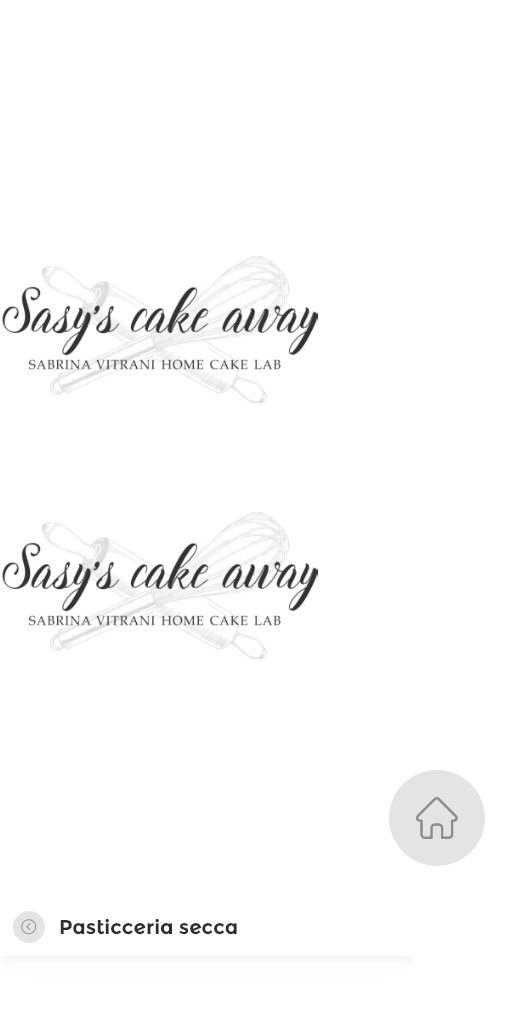
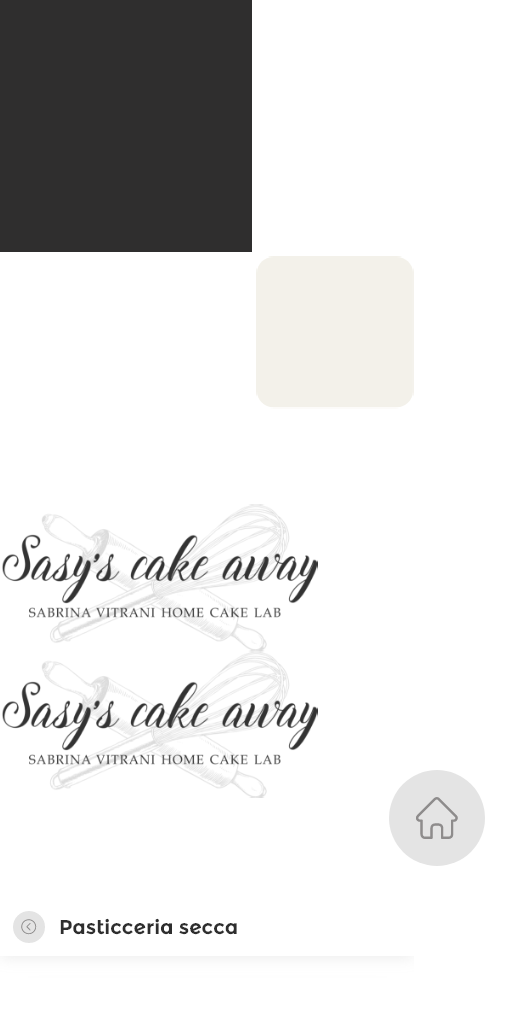
New button animation
Only with Ordina

Changed region(s): [[0.0, 0.0, 0.625, 0.375], [0.0, 0.5, 0.625, 0.625], [0.0, 0.6562, 0.625, 0.7812]]

diff --git a/scripts/c3runtime.js b/scripts/c3runtime.js
@@ -2674,6 +2674,57 @@ Vendor(){return navigator.vendor},BatteryLevel(){return 1},BatteryTimeLeft(){ret
 WindowInnerWidth(){return this._runtime.GetCanvasManager().GetLastWidth()},WindowInnerHeight(){return this._runtime.GetCanvasManager().GetLastHeight()},WindowOuterWidth(){return this._windowOuterWidth},WindowOuterHeight(){return this._windowOuterWidth}}};
 
 
+'use strict';{const C3=self.C3;C3.Plugins.shadowlight=class ShadowLightPlugin extends C3.SDKPluginBase{constructor(opts){super(opts);this._penumbraAsset=this._runtime.LoadImage({url:"penumbra.png"});this._penumbraDrawable=null;this._runtime.AddLoadPromise(this._penumbraAsset.LoadToDrawable().then(drawable=>this._penumbraDrawable=drawable))}Release(){super.Release()}GetPenumbraDrawable(){return this._penumbraDrawable}}};
+
+
+'use strict';{const C3=self.C3;C3.Plugins.shadowlight.Type=class ShadowLightType extends C3.SDKTypeBase{constructor(objectClass){super(objectClass)}Release(){super.Release()}OnCreate(){}LoadTextures(renderer){}ReleaseTextures(){}}};
+
+
+'use strict';{const C3=self.C3;const LIGHT_HEIGHT=0;const LIGHT_RADIUS=1;const SHADOW_COLOR=2;const CAST_FROM=3;const TAG=4;const ALL=0;const SAME=1;const DIFFERENT=2;const TEMP_COLOR=[0,0,0];const SHADOW_CAST_TARGETS=["all","same-tag","different-tag"];const tempColor=C3.New(C3.Color);const tempPoly=C3.New(C3.CollisionPoly);const tileCollRectCandidates=[];const tempRect=C3.New(C3.Rect);C3.Plugins.shadowlight.Instance=class ShadowLightInstance extends C3.SDKWorldInstanceBase{constructor(inst,properties){super(inst);
+const wi=this.GetWorldInfo();this._lightX=wi.GetX();this._lightY=wi.GetY();this._lightZ=0;this._maxExtrude=1E3;this._lightRadius=0;this._color=C3.New(C3.Color);this._castFrom=0;this._tag="";this._lastKnownX=wi.GetX();this._lastKnownY=wi.GetY();this._penumbraTexture=null;if(properties){this._lightZ=properties[LIGHT_HEIGHT];this._lightRadius=this._lightZ===0?properties[LIGHT_RADIUS]:0;const c=properties[SHADOW_COLOR];this._color.setRgb(c[0],c[1],c[2]);this._castFrom=properties[CAST_FROM];this._tag=
+properties[TAG]}this._shadowRenderer=C3.New(self.ShadowRenderer);this.HandleWebGLContextLoss();this._StartTicking2()}Release(){this._ReleasePenumbraTexture();if(this._shadowRenderer){this._shadowRenderer.Release();this._shadowRenderer=null}this._color=null;super.Release()}SaveToJson(){return{"lh":this._lightZ,"lr":this._lightRadius,"sc":this._color.toJSON(),"cf":this._castFrom,"t":this._tag}}LoadFromJson(o){this._lightZ=o["lh"];this._lightRadius=o["lr"];this._color.setFromJSON(o["sc"]);this._castFrom=
+o["cf"];this._tag=o["t"]}_ReleasePenumbraTexture(){if(!this._penumbraTexture)return;this._runtime.GetWebGLRenderer().DeleteTexture(this._penumbraTexture);this._penumbraTexture=null}OnWebGLContextLost(){this._penumbraTexture=null}OnWebGLContextRestored(){}_CastsFrom(otherTag){switch(this._castFrom){case ALL:return true;case SAME:return C3.equalsNoCase(this._tag,otherTag);case DIFFERENT:return!C3.equalsNoCase(this._tag,otherTag)}}Tick2(){const wi=this.GetWorldInfo();if(this._lastKnownX!==wi.GetX()||
+this._lastKnownY!==wi.GetY()){this._lightX=wi.GetX();this._lightY=wi.GetY()}const viewport=tempRect;wi.GetLayer().GetViewportForZ(wi.GetTotalZElevation(),viewport);const newX=viewport.midX();const newY=viewport.midY();const newW=viewport.width()+this._maxExtrude;const newH=viewport.height()+this._maxExtrude;if(newX!==wi.GetX()||newY!==wi.GetY()||newW!==wi.GetWidth()||newH!==wi.GetHeight()){wi.SetXY(newX,newY);wi.SetSize(newW,newH);wi.SetBboxChanged()}this._lastKnownX=wi.GetX();this._lastKnownY=wi.GetY();
+this._maxExtrude=C3.distanceTo(viewport.getLeft(),viewport.getTop(),viewport.getRight(),viewport.getBottom())*15}_GetShadowCasterCandidates(){const shadowCasterBehavior=this._runtime.GetPluginManager().GetBehaviorByConstructorFunction(C3.Behaviors.shadowcaster);if(!shadowCasterBehavior)return[];const wi=this.GetWorldInfo();const layer=wi.GetLayer();const boundBox=wi.GetBoundingBox();const objectClasses=shadowCasterBehavior.GetObjectClasses();const tempArr=[];const engine=this._runtime.GetCollisionEngine();
+engine.GetObjectClassesCollisionCandidates(layer,objectClasses,boundBox,tempArr);return[...new Set(tempArr)]}_UpdateShadowRendererParameters(){this._shadowRenderer.SetLightX(this._lightX);this._shadowRenderer.SetLightY(this._lightY);this._shadowRenderer.SetLightZ(this._lightZ);this._shadowRenderer.SetLightRadius(this._lightRadius);this._shadowRenderer.SetCastFrom(SHADOW_CAST_TARGETS[this._castFrom]);this._shadowRenderer.SetTag(this._tag);this._shadowRenderer.SetMaxExtrude(this._maxExtrude)}_MaybeCreatePenumbraTexture(renderer){if(this._penumbraTexture)return;
+const drawable=this.GetPlugin().GetPenumbraDrawable();const w=drawable.width;const h=drawable.height;const tempCanvas=C3.CreateCanvas(w,h);const tempCtx=tempCanvas.getContext("2d");tempCtx.drawImage(drawable,0,0,w,h);const imageData=tempCtx.getImageData(0,0,w,h);const arr=imageData.data;const r=Math.floor(this._color.getR()*255);const g=Math.floor(this._color.getG()*255);const b=Math.floor(this._color.getB()*255);for(let i=0,len=arr.length;i<len;i+=4){arr[i]=r;arr[i+1]=g;arr[i+2]=b}tempCtx.putImageData(imageData,
+0,0);this._penumbraTexture=renderer.CreateStaticTexture(tempCanvas,{sampling:this._runtime.GetSampling()})}Draw(renderer){this._UpdateShadowRendererParameters();this._MaybeCreatePenumbraTexture(renderer);this._shadowRenderer.SetPenumbraTexture(this._penumbraTexture);const wi=this.GetWorldInfo();tempColor.copyRgb(this._color);tempColor.setA(wi.GetOpacity());tempColor.premultiply();renderer.SetColor(tempColor);renderer.SetColorFillMode();for(const inst of this._GetShadowCasterCandidates())this._DrawInstanceShadow(renderer,
+inst)}_DrawInstanceShadow(renderer,inst){const savedMap=inst.GetSavedDataMap();if(!savedMap.get("shadowcasterEnabled")||!this._CastsFrom(savedMap.get("shadowcasterTag")))return;const h=savedMap.get("shadowcasterHeight");if(inst.HasTilemap())this._DrawTilemapShadow(renderer,inst,h);else{const wi=inst.GetWorldInfo();const poly=wi.GetTransformedCollisionPoly();tempPoly.copy(poly);tempPoly.offset(wi.GetX(),wi.GetY());this._shadowRenderer.RenderShadow(renderer,tempPoly,h)}}_DrawTilemapShadow(renderer,
+inst,h){const collRects=tileCollRectCandidates;const boundBox=this.GetWorldInfo().GetBoundingBox();inst.GetSdkInstance().GetCollisionRectCandidates(boundBox,collRects);const tmWi=inst.GetWorldInfo();const tmX=tmWi.GetX();const tmY=tmWi.GetY();for(let i=0,len=collRects.length;i<len;++i){const c=collRects[i];const tileRc=c.GetRect();const tilePoly=c.GetPoly();if(tilePoly){tempPoly.copy(tilePoly);tempPoly.offset(tmX+tileRc.getLeft(),tmY+tileRc.getTop())}else tempPoly.setFromRect(tileRc,-tmX,-tmY);this._shadowRenderer.RenderShadow(renderer,
+tempPoly,h)}C3.clearArray(collRects)}GetPropertyValueByIndex(index){switch(index){case LIGHT_HEIGHT:return this._lightZ;case LIGHT_RADIUS:return this._lightRadius;case SHADOW_COLOR:TEMP_COLOR[0]=this._color.getR();TEMP_COLOR[1]=this._color.getG();TEMP_COLOR[2]=this._color.getB();return TEMP_COLOR.slice(0);case CAST_FROM:return this._castFrom;case TAG:return this._tag}}SetPropertyValueByIndex(index,value){switch(index){case LIGHT_HEIGHT:this._lightZ=value;break;case LIGHT_RADIUS:this._lightRadius=
+value;break;case SHADOW_COLOR:this._color.setRgb(value[0],value[1],value[2]);break;case CAST_FROM:this._castFrom=value;break;case TAG:this._tag=value;break}}SetPropertyColorOffsetValueByIndex(index,r,g,b){if(r===0&&g===0&&b===0)return;switch(index){case SHADOW_COLOR:this._color.addRgb(r,g,b);break}}}};
+
+
+'use strict';{const C3=self.C3;C3.Plugins.shadowlight.Cnds={}};
+
+
+'use strict';{const C3=self.C3;const tempColor=C3.New(C3.Color);C3.Plugins.shadowlight.Acts={SetLightHeight(z){if(this._lightZ===z)return;this._lightZ=z;this._runtime.UpdateRender()},SetLightColor(rgb){tempColor.setFromRgbValue(rgb);tempColor.clamp();if(this._color.equalsIgnoringAlpha(tempColor))return;this._color.copyRgb(tempColor);this._ReleasePenumbraTexture();this._runtime.UpdateRender()},SetTag(tag){if(this._tag===tag)return;this._tag=tag;this._runtime.UpdateRender()},SetCastFrom(cf){if(this._castFrom===
+cf)return;this._castFrom=cf;this._runtime.UpdateRender()}}};
+
+
+'use strict';{const C3=self.C3;C3.Plugins.shadowlight.Exps={LightX(){return this._lightX},LightY(){return this._lightY},Tag(){return this._tag}}};
+
+
+'use strict';{const C3=self.C3;function IsBackFace(Lx,Ly,px,py,qx,qy){let n=C3.angleTo(px,py,qx,qy)-Math.PI/2;let a=C3.angleTo(px,py,Lx,Ly);return C3.angleDiff(a,n)>=Math.PI/2}let segmentIntersectX=0;let segmentIntersectY=0;function SegmentIntersectionAt(p0_x,p0_y,p1_x,p1_y,p2_x,p2_y,p3_x,p3_y){let s1_x=p1_x-p0_x;let s1_y=p1_y-p0_y;let s2_x=p3_x-p2_x;let s2_y=p3_y-p2_y;let div=-s2_x*s1_y+s1_x*s2_y;if(div===0)return false;let s=(-s1_y*(p0_x-p2_x)+s1_x*(p0_y-p2_y))/div;div=-s2_x*s1_y+s1_x*s2_y;if(div===
+0)return false;let t=(s2_x*(p0_y-p2_y)-s2_y*(p0_x-p2_x))/div;if(s>=0&&s<=1&&t>=0&&t<=1){segmentIntersectX=p0_x+t*s1_x;segmentIntersectY=p0_y+t*s1_y;return true}return false}let posQuad=new C3.Quad;let uvQuad=new C3.Quad;const VALID_CASTFROM=new Set(["all","same-tag","different-tag"]);self.ShadowRenderer=class ShadowRenderer{constructor(){this._lightX=0;this._lightY=0;this._lightZ=0;this._lightRadius=0;this._castFrom="all";this._tag="";this._maxExtrude=1E3;this._backFaces1=[];this._backFaces2=[];this._umbraPts=
+[];this._cwEdge1=-1;this._cwEdge2=-1;this._acwEdge1=-1;this._acwEdge2=-1;this._acwUmbraRootX=0;this._acwUmbraRootY=0;this._cwUmbraRootX=0;this._cwUmbraRootY=0;this._acwUmbraProjX=0;this._acwUmbraProjY=0;this._cwUmbraProjX=0;this._cwUmbraProjY=0;this._polyMidX=0;this._polyMidY=0;this._penumbraTexture=null}Release(){this.Reset();this._backFaces1=null;this._backFaces2=null;this._umbraPts=null;this._penumbraTexture=null}Reset(){C3.clearArray(this._backFaces1);C3.clearArray(this._backFaces2);C3.clearArray(this._umbraPts);
+this._cwEdge1=-1;this._cwEdge2=-1;this._acwEdge1=-1;this._acwEdge2=-1;this._acwUmbraRootX=0;this._acwUmbraRootY=0;this._cwUmbraRootX=0;this._cwUmbraRootY=0;this._acwUmbraProjX=0;this._acwUmbraProjY=0;this._cwUmbraProjX=0;this._cwUmbraProjY=0;this._polyMidX=0;this._polyMidY=0}SetLightX(x){this._lightX=x}GetLightX(){return this._lightX}SetLightY(y){this._lightY=y}GetLightY(){return this._lightY}SetLightZ(z){this._lightZ=z}GetLightZ(){return this._lightZ}SetLightRadius(r){if(r<0)r=0;this._lightRadius=
+r}GetLightRadius(){return this._lightRadius}SetCastFrom(c){if(!VALID_CASTFROM.has(c))throw new Error("invalid cast-from");this._castFrom=c}GetCastFrom(){return this._castFrom}SetTag(t){this._tag=t}GetTag(){return this._tag}SetMaxExtrude(e){this._maxExtrude=e}GetMaxExtrude(){return this._maxExtrude}SetPenumbraTexture(texture){this._penumbraTexture=texture}RenderShadow(renderer,poly,casterHeight){this.Reset();this.CalculateShadow(poly,casterHeight);renderer.SetColorFillMode();if(this._umbraPts.length>=
+6)renderer.ConvexPoly(this._umbraPts);if(this._lightRadius>0&&this._penumbraTexture){if(this._cwEdge1>-1&&this._cwEdge2>-1){renderer.SetTextureFillMode();renderer.SetTexture(this._penumbraTexture);this.FillPenumbra(renderer,poly,true)}if(this._acwEdge1>-1&&this._acwEdge2>-1){renderer.SetTextureFillMode();renderer.SetTexture(this._penumbraTexture);this.FillPenumbra(renderer,poly,false)}}}CalculateShadow(poly,casterHeight){this._polyMidX=poly.GetMidX();this._polyMidY=poly.GetMidY();if(this._lightRadius>
+0)this._CalculateShadowWithRadius(poly,casterHeight);else this._CalculateShadowWithoutRadius(poly,casterHeight)}_CalculateShadowWithRadius(poly,casterHeight){this._CalcBackFaces(poly,-this._lightRadius);this._FindEdges();C3.shallowAssignArray(this._backFaces2,this._backFaces1);this._cwEdge2=this._cwEdge1;this._acwEdge2=this._acwEdge1;C3.clearArray(this._backFaces1);this._cwEdge1=-1;this._acwEdge1=-1;this._CalcBackFaces(poly,this._lightRadius);this._FindEdges();if(this._cwEdge1===-1||this._acwEdge1===
+-1||this._cwEdge2===-1||this._acwEdge2===-1)return;this._CalcUmbraWithRadius(poly,casterHeight)}_CalculateShadowWithoutRadius(poly,casterHeight){this._CalcBackFaces(poly,0);this._FindEdges();let points=poly.GetPointsArray();for(let i=0,len=points.length;i<len;i+=2){let polyx=points[i];let polyy=points[i+1];this._CalcShadowSegment(i/2,this._lightX,this._lightY,polyx,polyy,casterHeight)}}_CalcBackFaces(poly,r){let OLx=this._lightX;let OLy=this._lightY;let Lx=OLx;let Ly=OLy;let a=0;if(r!==0)a=C3.angleTo(OLx,
+OLy,this._polyMidX,this._polyMidY)-Math.PI/2;let points=poly.GetPointsArray();for(let i=0,len=points.length;i<len;i+=2){let j=i+2;if(j===len)j=0;let polyx=points[i];let polyy=points[i+1];let nextx=points[j];let nexty=points[j+1];if(r!==0){Lx=OLx+Math.cos(a)*r;Ly=OLy+Math.sin(a)*r}this._backFaces1.push(IsBackFace(Lx,Ly,polyx,polyy,nextx,nexty))}}_GetBackFaceAt(i){i%=this._backFaces1.length;if(i<0)i+=this._backFaces1.length;return this._backFaces1[i]}_FindEdges(){for(let i=0,len=this._backFaces1.length;i<
+len;++i){let isBackFace=this._backFaces1[i];let lastBackFace=this._GetBackFaceAt(i-1);if(lastBackFace&&!isBackFace)this._cwEdge1=i;if(!lastBackFace&&isBackFace)this._acwEdge1=i}}_CalcShadowSegment(i,Lx,Ly,px,py,casterHeight){let isBackFace=this._backFaces1[i];let lastBackFace=this._GetBackFaceAt(i-1);let isClockwiseEdge=i===this._cwEdge1;let isAnticlockwiseEdge=i===this._acwEdge1;let x=0;let y=0;if(isBackFace||lastBackFace){let ap=C3.angleTo(Lx,Ly,px,py);let dp=C3.distanceTo(Lx,Ly,px,py);let e=this._CalculateExtrusion(Lx,
+Ly,px,py,casterHeight);x=Lx+Math.cos(ap)*(dp+e);y=Ly+Math.sin(ap)*(dp+e)}else{x=px;y=py}if(isAnticlockwiseEdge){this._umbraPts.push(px);this._umbraPts.push(py)}this._umbraPts.push(x);this._umbraPts.push(y);if(isClockwiseEdge){this._umbraPts.push(px);this._umbraPts.push(py)}}_CalculateExtrusion(Lx,Ly,x,y,h){if(h>=this._lightZ)return this._maxExtrude;if(h<=0)return 0;let dist=C3.distanceTo(Lx,Ly,x,y);let e=h*(dist/(this._lightZ-h));return C3.clamp(e,0,this._maxExtrude)}_CalcUmbraWithRadius(poly,h){let i=
+this._cwEdge2;let polyx=0;let polyy=0;let pointCount=poly.GetPointCount();let points=poly.GetPointsArray();for(;;++i){if(i===pointCount)i=0;let i2=i*2;polyx=points[i2];polyy=points[i2+1];this._umbraPts.push(polyx);this._umbraPts.push(polyy);if(i===this._acwEdge1)break}let r=this._lightRadius;let acw_x=polyx;let acw_y=polyy;let a=C3.angleTo(this._lightX,this._lightY,this._polyMidX,this._polyMidY);let L1x=this._lightX+Math.cos(a-Math.PI/2)*r;let L1y=this._lightY+Math.sin(a-Math.PI/2)*r;let ap=C3.angleTo(L1x,
+L1y,acw_x,acw_y);let ad=C3.distanceTo(L1x,L1y,acw_x,acw_y);let u1x=L1x+Math.cos(ap)*(ad+this._maxExtrude);let u1y=L1y+Math.sin(ap)*(ad+this._maxExtrude);let i2=this._cwEdge2*2;let cw_x=points[i2];let cw_y=points[i2+1];a=C3.angleTo(this._lightX,this._lightY,this._polyMidX,this._polyMidY);let L2x=this._lightX+Math.cos(a+Math.PI/2)*r;let L2y=this._lightY+Math.sin(a+Math.PI/2)*r;ap=C3.angleTo(L2x,L2y,cw_x,cw_y);ad=C3.distanceTo(L2x,L2y,cw_x,cw_y);let u2x=L2x+Math.cos(ap)*(ad+this._maxExtrude);let u2y=
+L2y+Math.sin(ap)*(ad+this._maxExtrude);this._acwUmbraRootX=acw_x;this._acwUmbraRootY=acw_y;this._cwUmbraRootX=cw_x;this._cwUmbraRootY=cw_y;if(SegmentIntersectionAt(acw_x,acw_y,u1x,u1y,cw_x,cw_y,u2x,u2y)){this._umbraPts.push(segmentIntersectX);this._umbraPts.push(segmentIntersectY);this._acwUmbraProjX=segmentIntersectX;this._acwUmbraProjY=segmentIntersectY;this._cwUmbraProjX=segmentIntersectX;this._cwUmbraProjY=segmentIntersectY}else{this._umbraPts.push(u1x);this._umbraPts.push(u1y);this._umbraPts.push(u2x);
+this._umbraPts.push(u2y);this._acwUmbraProjX=u1x;this._acwUmbraProjY=u1y;this._cwUmbraProjX=u2x;this._cwUmbraProjY=u2y}}FillPenumbra(renderer,poly,clockwise){let Lx=this._lightX;let Ly=this._lightY;let points=poly.GetPointsArray();let rootx=0;let rooty=0;let innerx=0;let innery=0;if(clockwise){rootx=this._cwUmbraRootX;rooty=this._cwUmbraRootY;innerx=this._cwUmbraProjX;innery=this._cwUmbraProjY}else{rootx=this._acwUmbraRootX;rooty=this._acwUmbraRootY;innerx=this._acwUmbraProjX;innery=this._acwUmbraProjY}let r=
+this._lightRadius;let a=C3.angleTo(Lx,Ly,this._polyMidX,this._polyMidY);let oa=Math.PI/2;if(clockwise)oa=-oa;Lx+=Math.cos(a+oa)*r;Ly+=Math.sin(a+oa)*r;let twopart=false;let secx=0;let secy=0;if(clockwise){twopart=this._cwEdge1!==this._cwEdge2;if(twopart){secx=points[this._cwEdge1*2];secy=points[this._cwEdge1*2+1]}}else{twopart=this._acwEdge1!==this._acwEdge2;if(twopart){secx=points[this._acwEdge2*2];secy=points[this._acwEdge2*2+1]}}if(twopart)a=C3.angleTo(secx,secy,rootx,rooty);else a=C3.angleTo(Lx,
+Ly,rootx,rooty);let Ux=rootx+Math.cos(a)*this._maxExtrude;let Uy=rooty+Math.sin(a)*this._maxExtrude;let U2x=0;let U2y=0;let umbra_factor=0;let rootu=0;let rootv=1;if(twopart){let a3=C3.angleTo(Lx,Ly,secx,secy);U2x=secx+Math.cos(a3)*this._maxExtrude;U2y=secy+Math.sin(a3)*this._maxExtrude;let a2=a;let a1=C3.angleTo(rootx,rooty,innerx,innery);umbra_factor=C3.angleDiff(a2,a3)/C3.angleDiff(a1,a3);let side_dist=C3.distanceTo(secx,secy,rootx,rooty);let inner_root_factor=side_dist/(side_dist+this._maxExtrude);
+let sega=C3.angleTo(0,1,umbra_factor,0);let segd=C3.distanceTo(0,1,umbra_factor,0);rootu+=Math.cos(sega)*inner_root_factor*segd;rootv+=Math.sin(sega)*inner_root_factor*segd}posQuad.set(rootx,rooty,innerx,innery,Ux,Uy,Ux,Uy);uvQuad.set(rootu,rootv,1,0,umbra_factor,0,umbra_factor,0);renderer.Quad4(posQuad,uvQuad);if(twopart){posQuad.set(secx,secy,Ux,Uy,U2x,U2y,U2x,U2y);uvQuad.set(0,1,umbra_factor,0,0,0,0,0);renderer.Quad4(posQuad,uvQuad)}}}};
+
+
 'use strict';{const C3=self.C3;C3.Behaviors.Bullet=class BulletBehavior extends C3.SDKBehaviorBase{constructor(opts){super(opts)}Release(){super.Release()}}};
 
 
@@ -2708,6 +2759,30 @@ const map=new WeakMap;self.IBulletBehaviorInstance=class IBulletBehaviorInstance
 'use strict';{const C3=self.C3;C3.Behaviors.Bullet.Exps={Speed(){return this._GetSpeed()},Acceleration(){return this._GetAcceleration()},AngleOfMotion(){return C3.toDegrees(this._GetAngleOfMotion())},DistanceTravelled(){return this._GetDistanceTravelled()},Gravity(){return this._GetGravity()}}};
 
 
+'use strict';{const C3=self.C3;C3.Behaviors.Fade=class FadeBehavior extends C3.SDKBehaviorBase{constructor(opts){super(opts)}Release(){super.Release()}}};
+
+
+'use strict';{const C3=self.C3;C3.Behaviors.Fade.Type=class FadeType extends C3.SDKBehaviorTypeBase{constructor(behaviorType){super(behaviorType)}Release(){super.Release()}OnCreate(){}}};
+
+
+'use strict';{const C3=self.C3;const FADE_IN_TIME=0;const WAIT_TIME=1;const FADE_OUT_TIME=2;const DESTROY=3;const ACTIVE_AT_START=4;C3.Behaviors.Fade.Instance=class FadeInstance extends C3.SDKBehaviorInstanceBase{constructor(behInst,properties){super(behInst);this._fadeInTime=0;this._waitTime=0;this._fadeOutTime=0;this._destroy=true;this._activeAtStart=true;this._setMaxOpacity=false;this._stage=0;this._stageTime=C3.New(C3.KahanSum);this._maxOpacity=this._inst.GetWorldInfo().GetOpacity()||1;if(properties){this._fadeInTime=
+properties[FADE_IN_TIME];this._waitTime=properties[WAIT_TIME];this._fadeOutTime=properties[FADE_OUT_TIME];this._destroy=!!properties[DESTROY];this._activeAtStart=!!properties[ACTIVE_AT_START];this._stage=this._activeAtStart?0:3}if(this._activeAtStart)if(this._fadeInTime===0){this._stage=1;if(this._waitTime===0)this._stage=2}else{this._inst.GetWorldInfo().SetOpacity(0);this._runtime.UpdateRender()}this._StartTicking()}Release(){super.Release()}SaveToJson(){return{"fit":this._fadeInTime,"wt":this._waitTime,
+"fot":this._fadeOutTime,"d":this._destroy,"s":this._stage,"st":this._stageTime.Get(),"mo":this._maxOpacity}}LoadFromJson(o){this._fadeInTime=o["fit"];this._waitTime=o["wt"];this._fadeOutTime=o["fot"];this._destroy=o["d"];this._stage=o["s"];this._stageTime.Set(o["st"]);this._maxOpacity=o["mo"]}Tick(){const dt=this._runtime.GetDt(this._inst);this._stageTime.Add(dt);const wi=this._inst.GetWorldInfo();if(this._stage===0){wi.SetOpacity(this._stageTime.Get()/this._fadeInTime*this._maxOpacity);this._runtime.UpdateRender();
+if(wi.GetOpacity()>=this._maxOpacity){wi.SetOpacity(this._maxOpacity);this._stage=1;this._stageTime.Reset();this.Trigger(C3.Behaviors.Fade.Cnds.OnFadeInEnd)}}if(this._stage===1)if(this._stageTime.Get()>=this._waitTime){this._stage=2;this._stageTime.Reset();this.Trigger(C3.Behaviors.Fade.Cnds.OnWaitEnd)}if(this._stage===2)if(this._fadeOutTime!==0){wi.SetOpacity(this._maxOpacity-this._stageTime.Get()/this._fadeOutTime*this._maxOpacity);this._runtime.UpdateRender();if(wi.GetOpacity()<=0){this._stage=
+3;this._stageTime.Reset();this.Trigger(C3.Behaviors.Fade.Cnds.OnFadeOutEnd);if(this._destroy)this._runtime.DestroyInstance(this._inst)}}}Start(){this._stage=0;this._stageTime.Reset();if(this._fadeInTime===0){this._stage=1;if(this._waitTime===0)this._stage=2}else{this._inst.GetWorldInfo().SetOpacity(0);this._runtime.UpdateRender()}}GetPropertyValueByIndex(index){switch(index){case FADE_IN_TIME:return this._fadeInTime;case WAIT_TIME:return this._waitTime;case FADE_OUT_TIME:return this._fadeOutTime;
+case DESTROY:return this._destroy}}SetPropertyValueByIndex(index,value){switch(index){case FADE_IN_TIME:this._fadeInTime=value;break;case WAIT_TIME:this._waitTime=value;break;case FADE_OUT_TIME:this._fadeOutTime=value;break;case DESTROY:this._destroy=!!value;break}}GetDebuggerProperties(){const prefix="behaviors.fade";return[{title:"$"+this.GetBehaviorType().GetName(),properties:[{name:prefix+".properties.fade-in-time.name",value:this._fadeInTime,onedit:v=>this._fadeInTime=v},{name:prefix+".properties.wait-time.name",
+value:this._waitTime,onedit:v=>this._waitTime=v},{name:prefix+".properties.fade-out-time.name",value:this._fadeOutTime,onedit:v=>this._fadeOutTime=v},{name:prefix+".debugger.stage",value:[prefix+".debugger."+["fade-in","wait","fade-out","done"][this._stage]]}]}]}}};
+
+
+'use strict';{const C3=self.C3;C3.Behaviors.Fade.Cnds={OnFadeOutEnd(){return true},OnFadeInEnd(){return true},OnWaitEnd(){return true}}};
+
+
+'use strict';{const C3=self.C3;C3.Behaviors.Fade.Acts={StartFade(){if(!this._activeAtStart&&!this._setMaxOpacity){this._maxOpacity=this._inst.GetWorldInfo().GetOpacity()||1;this._setMaxOpacity=true}if(this._stage===3)this.Start()},RestartFade(){this.Start()},SetFadeInTime(t){if(t<0)t=0;this._fadeInTime=t},SetWaitTime(t){if(t<0)t=0;this._waitTime=t},SetFadeOutTime(t){if(t<0)t=0;this._fadeOutTime=t}}};
+
+
+'use strict';{const C3=self.C3;C3.Behaviors.Fade.Exps={FadeInTime(){return this._fadeInTime},WaitTime(){return this._waitTime},FadeOutTime(){return this._fadeOutTime}}};
+
+
 "use strict"
 {
 	const C3 = self.C3;
@@ -2717,12 +2792,17 @@ const map=new WeakMap;self.IBulletBehaviorInstance=class IBulletBehaviorInstance
 		C3.Plugins.Sprite,
 		C3.Behaviors.Bullet,
 		C3.Plugins.Browser,
+		C3.Plugins.shadowlight,
+		C3.Behaviors.Fade,
+		C3.Plugins.System.Cnds.OnLayoutStart,
+		C3.Plugins.Sprite.Acts.SetVisible,
 		C3.Plugins.Touch.Cnds.OnTapGestureObject,
+		C3.Behaviors.Fade.Acts.StartFade,
+		C3.Plugins.System.Acts.Wait,
 		C3.Plugins.System.Acts.GoToLayout,
 		C3.Plugins.Browser.Acts.GoToURLWindow,
 		C3.Behaviors.Bullet.Acts.SetEnabled,
 		C3.Behaviors.Bullet.Acts.SetSpeed,
-		C3.Plugins.System.Acts.Wait,
 		C3.Behaviors.Bullet.Acts.SetAngleOfMotion
 		];
 	};
@@ -2775,7 +2855,11 @@ const map=new WeakMap;self.IBulletBehaviorInstance=class IBulletBehaviorInstance
 		{Sprite41: 0},
 		{Sprite42: 0},
 		{Sprite43: 0},
-		{Indietropastsecca: 0}
+		{Indietropastsecca: 0},
+		{Riflettore: 0},
+		{Dissolvenza: 0},
+		{Sprite17: 0},
+		{Sprite29: 0}
 	];
 }
 
@@ -2877,6 +2961,7 @@ const map=new WeakMap;self.IBulletBehaviorInstance=class IBulletBehaviorInstance
 	}
 
 	self.C3_ExpressionFuncs = [
+		() => 0.2,
 		() => "https://sasycakeaway.com/",
 		() => "NewWindow",
 		() => -200,
